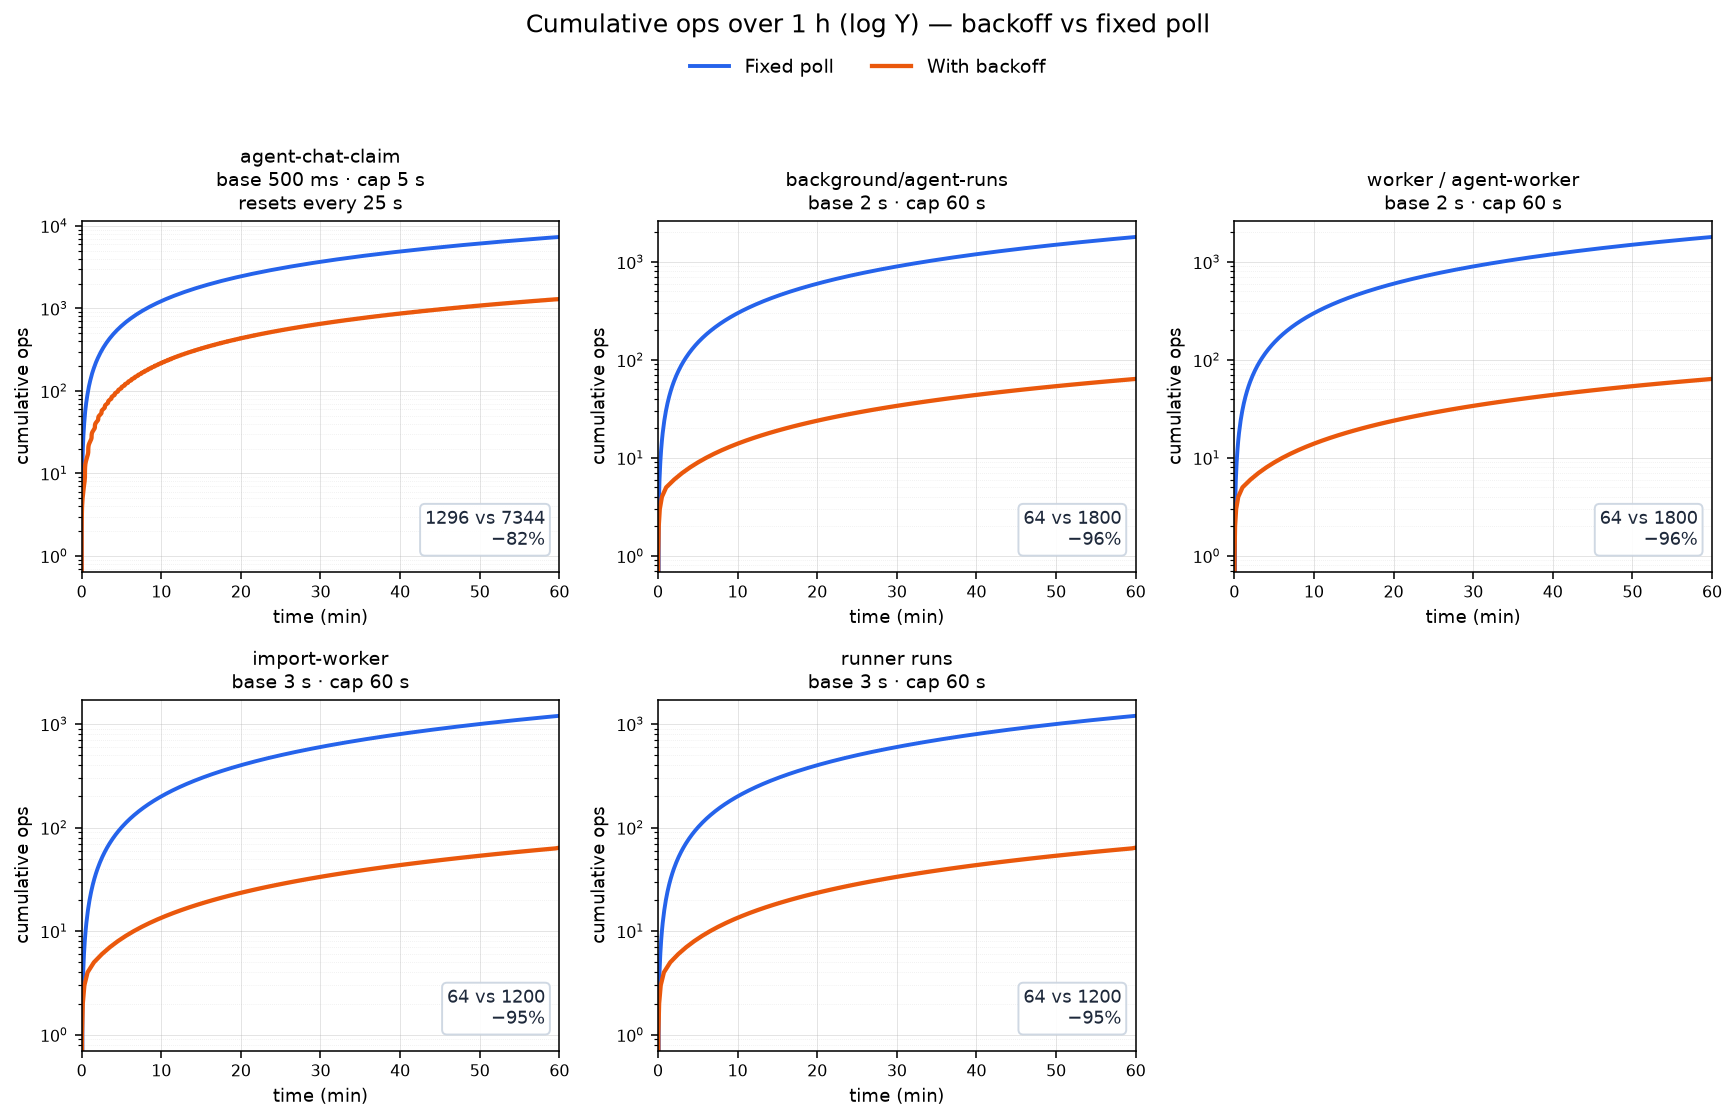
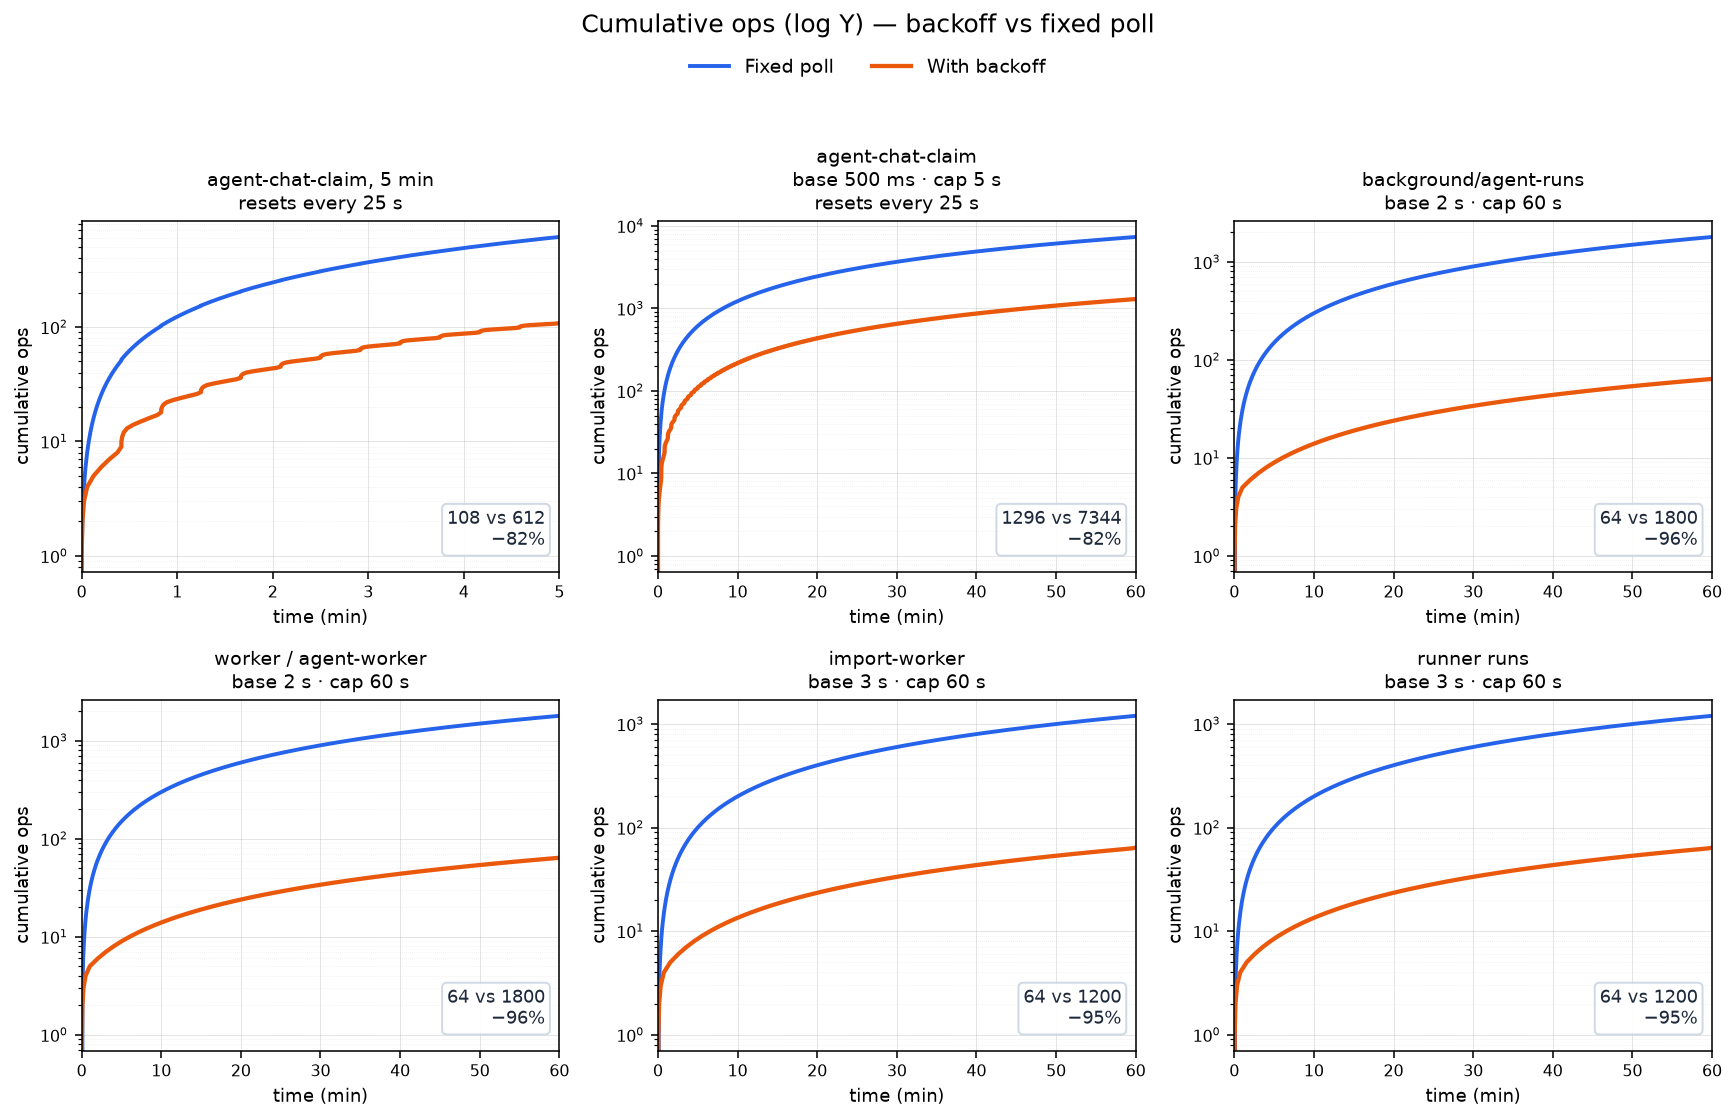
docs: zoom the chat idle chart to the first 5 minutes
The hour-long panel hides each 25s claim reset. The same series now leads
the figure on a 5 minute axis.

diff --git a/docs/dev/plot-idle-poll.py b/docs/dev/plot-idle-poll.py
@@ -38,12 +38,28 @@ except ImportError as err:
 # waits at most AGENT_CHAT_CLAIM_WAIT_MS (25s) and the next claim starts again at
 # the base. The other loops keep their streak across ticks, so their window is 0.
 CHAT_CLAIM_WAIT_MS = 25_000
-LOOPS: list[tuple[str, int, int, int]] = [
-    ("agent-chat-claim\nbase 500 ms · cap 5 s\nresets every 25 s", 500, 5_000, CHAT_CLAIM_WAIT_MS),
-    ("background/agent-runs\nbase 2 s · cap 60 s", 2_000, 60_000, 0),
-    ("worker / agent-worker\nbase 2 s · cap 60 s", 2_000, 60_000, 0),
-    ("import-worker\nbase 3 s · cap 60 s", 3_000, 60_000, 0),
-    ("runner runs\nbase 3 s · cap 60 s", 3_000, 60_000, 0),
+# title, base ms, cap ms, claim window ms, horizon ms (0 = the figure horizon).
+# The first panel is the chat claim over 5 minutes, so the 25 s reset is visible.
+# The second is that same loop over the full horizon.
+LOOPS: list[tuple[str, int, int, int, int]] = [
+    (
+        "agent-chat-claim, 5 min\nresets every 25 s",
+        500,
+        5_000,
+        CHAT_CLAIM_WAIT_MS,
+        5 * 60_000,
+    ),
+    (
+        "agent-chat-claim\nbase 500 ms · cap 5 s\nresets every 25 s",
+        500,
+        5_000,
+        CHAT_CLAIM_WAIT_MS,
+        0,
+    ),
+    ("background/agent-runs\nbase 2 s · cap 60 s", 2_000, 60_000, 0, 0),
+    ("worker / agent-worker\nbase 2 s · cap 60 s", 2_000, 60_000, 0, 0),
+    ("import-worker\nbase 3 s · cap 60 s", 3_000, 60_000, 0, 0),
+    ("runner runs\nbase 3 s · cap 60 s", 3_000, 60_000, 0, 0),
 ]
 
 REPO_ROOT = Path(__file__).resolve().parents[2]
@@ -135,8 +151,9 @@ def plot(out_dir: Path, horizon_ms: int, log_y: bool) -> Path:
         ax.set_visible(False)
 
     rows: list[tuple[str, int, int, int]] = []
-    for ax, (title, base, cap, window_ms) in zip(axes_flat, LOOPS):
-        bt, bn, ft, fn, end_b, end_f = simulate(base, cap, horizon_ms, window_ms)
+    for ax, (title, base, cap, window_ms, panel_horizon_ms) in zip(axes_flat, LOOPS):
+        span_ms = panel_horizon_ms or horizon_ms
+        bt, bn, ft, fn, end_b, end_f = simulate(base, cap, span_ms, window_ms)
         cut = round((1 - end_b / end_f) * 100)
         rows.append((title.split("\n", 1)[0], end_b, end_f, cut))
         ax.plot([t / 60_000 for t in ft], fn, color="#2563eb", lw=2.0, label="Fixed poll")
@@ -145,7 +162,7 @@ def plot(out_dir: Path, horizon_ms: int, log_y: bool) -> Path:
             ax.set_yscale("log")
         else:
             ax.set_ylim(bottom=0)
-        ax.set_xlim(0, horizon_ms / 60_000)
+        ax.set_xlim(0, span_ms / 60_000)
         ax.set_title(title, fontsize=10, pad=6)
         ax.grid(True, which="major", ls="-", lw=0.5, alpha=0.35)
         if log_y:
@@ -175,17 +192,16 @@ def plot(out_dir: Path, horizon_ms: int, log_y: bool) -> Path:
         fontsize=10,
         bbox_to_anchor=(0.5, 0.995),
     )
-    hours = horizon_ms / 3_600_000
-    horizon_label = f"{hours:g} h" if hours != 1 else "1 h"
     scale = "log Y" if log_y else "linear Y"
     fig.suptitle(
-        f"Cumulative ops over {horizon_label} ({scale}) — backoff vs fixed poll",
+        f"Cumulative ops ({scale}) — backoff vs fixed poll",
         fontsize=13,
         y=1.02,
     )
     fig.tight_layout(rect=[0, 0, 1, 0.96])
 
     out_dir.mkdir(parents=True, exist_ok=True)
+    hours = horizon_ms / 3_600_000
     name = "cumulative-1h-log.png" if log_y else "cumulative-1h-linear.png"
     if abs(hours - 1) > 1e-9:
         name = f"cumulative-{hours:g}h-{'log' if log_y else 'linear'}.png"

diff --git a/docs/idle-poll/README.md b/docs/idle-poll/README.md
@@ -27,7 +27,9 @@ the [developer notes](../dev/idle-poll.md).
 
 ## Idle cost over one hour
 
-Blue is the old fixed interval; orange is backoff.
+Blue is the old fixed interval; orange is backoff. The first panel is the chat claim
+over 5 minutes, so each 25 s reset is on the axis. The next panel is that same
+loop over the full hour.
 
 ![Cumulative ops over 1 h, linear Y](cumulative-1h-linear.png)
 
